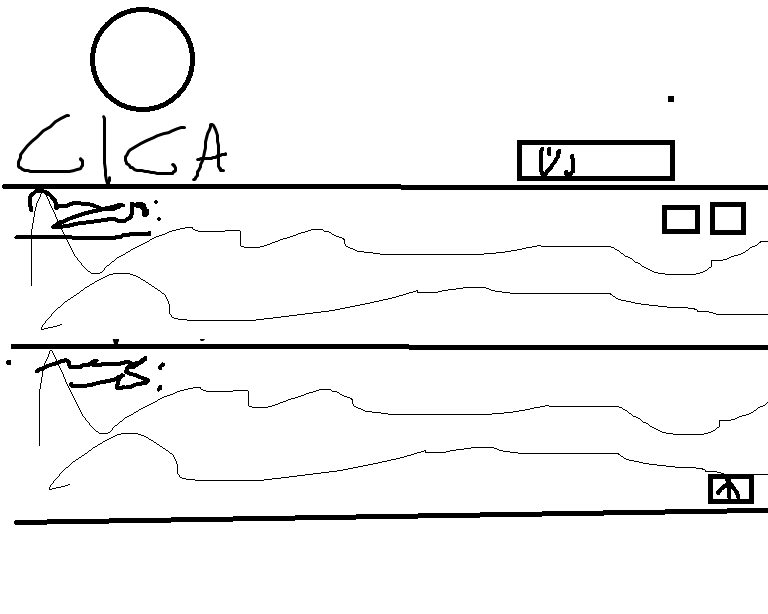
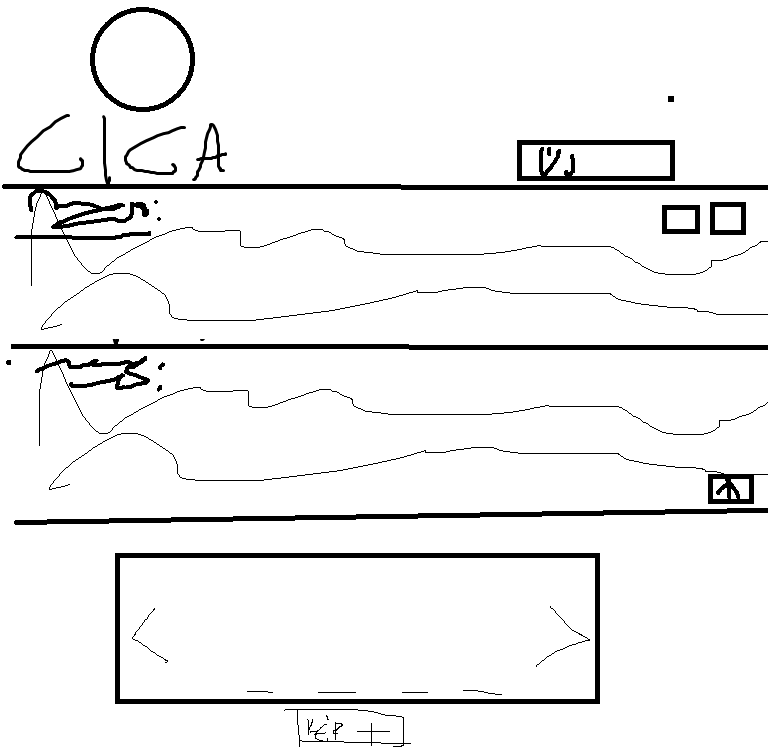
Eletutal haladunk

diff --git a/Csaladom-Emleke/src/views/eletut.vue b/Csaladom-Emleke/src/views/eletut.vue
@@ -1,11 +1,23 @@
 <template>
+    <button class="btn btn-primary visszagomb rounded-circle"><i class="bi bi-arrow-left"></i></button>
     <header class="row">
-        <img class="col-4 kep m-3" src="../assets/Nopic.png" alt="felhasznalo profilkep">
-        <div class="col-2 offset-6 d-flex justify-content-end flex-column"><button class="btn btn-primary">Új paragrafus írása</button></div>
+        <img class="col-lg-4 col-md-3 kep m-3 p-0" src="../assets/Profilkepteszt.png" alt="felhasznalo profilkep">
+        <h2 class="col-lg-6 col-md-5 col-xs-4 d-flex justify-content-center flex-column">Becses fiam</h2>
+        <div class="col-lg-2 col-md-4 col-xs-4 d-flex justify-content-end flex-column"><button class="btn btn-primary">Új paragrafus írása</button></div>
     </header>
     <hr>
     <main>
-        
+        <div class="m-3">
+            <div class="row">
+                <h3 class="col-10">CIMECSKE</h3>
+                <div class="col-2 d-flex flex-row-reverse">    
+                    <button class="m-1 m-lg-2 m-sm-1 btn btn-danger"><i class="bi bi-trash"></i></button>
+                    <button class="m-1 m-lg-2 m-sm-1 btn btn-warning"><i class="bi bi-pencil"></i></button>
+                </div>
+            </div>
+            <p class="m-3">Lorem, ipsum dolor sit amet consectetur adipisicing elit. Illo aliquam aliquid soluta quam qui tenetur non dolore cupiditate quos voluptates. Voluptate alias consequatur minus fugiat unde similique! Ut, harum dolorem?</p>
+            <hr>
+        </div>
     </main>
 </template>
 <script>
@@ -46,6 +58,30 @@ export default{
     height: 18vw;
     border-radius: 50%;
     border: 2px solid black;
+    object-fit: cover;
+}
+@media all and (max-width:768px) {
+
+img {
+    width: 24vw !important;
+    height: 24vw !important;
+    margin-right: auto !important;
+    margin-left: auto !important;
+}
+h2{
+    text-align: center;
+    text-decoration: underline;
+}
+}
+.visszagomb{
+    position: absolute;
+    top: 15px;
+    right: 15px;
+    z-index: 999;
+}
+p{
+    text-indent: 35px;
+    text-align: justify;
 }
 
 
